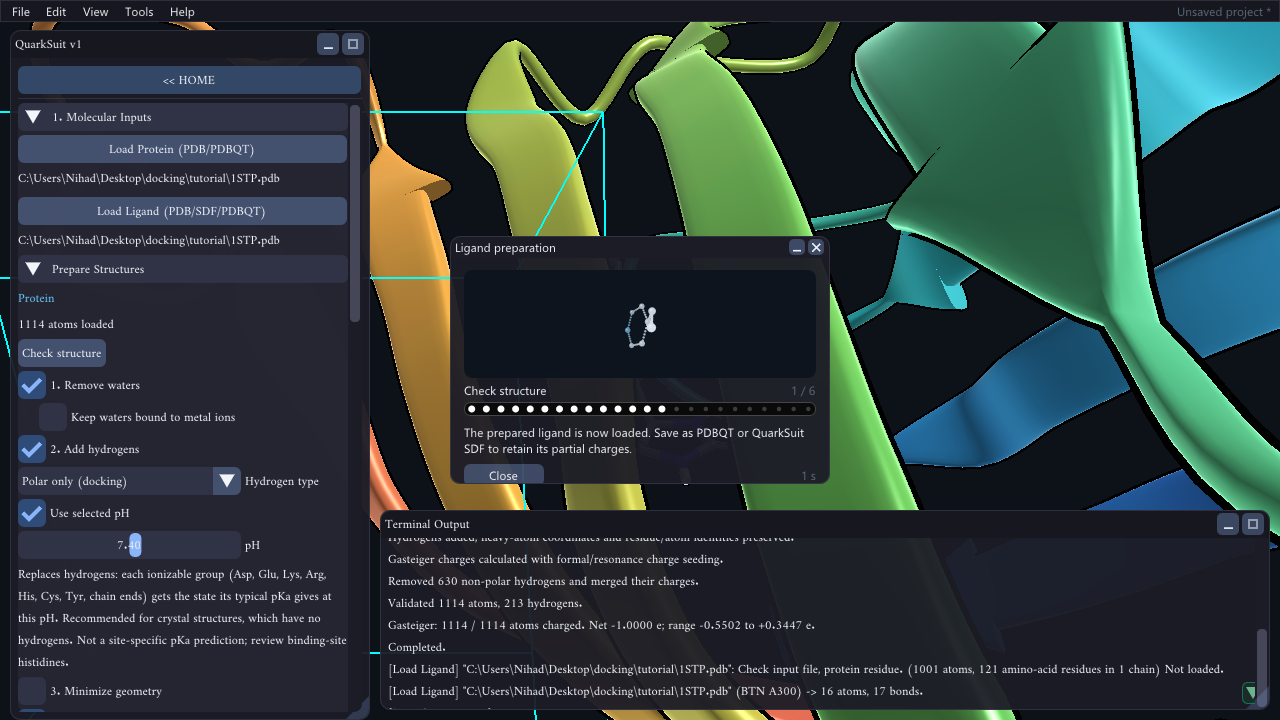
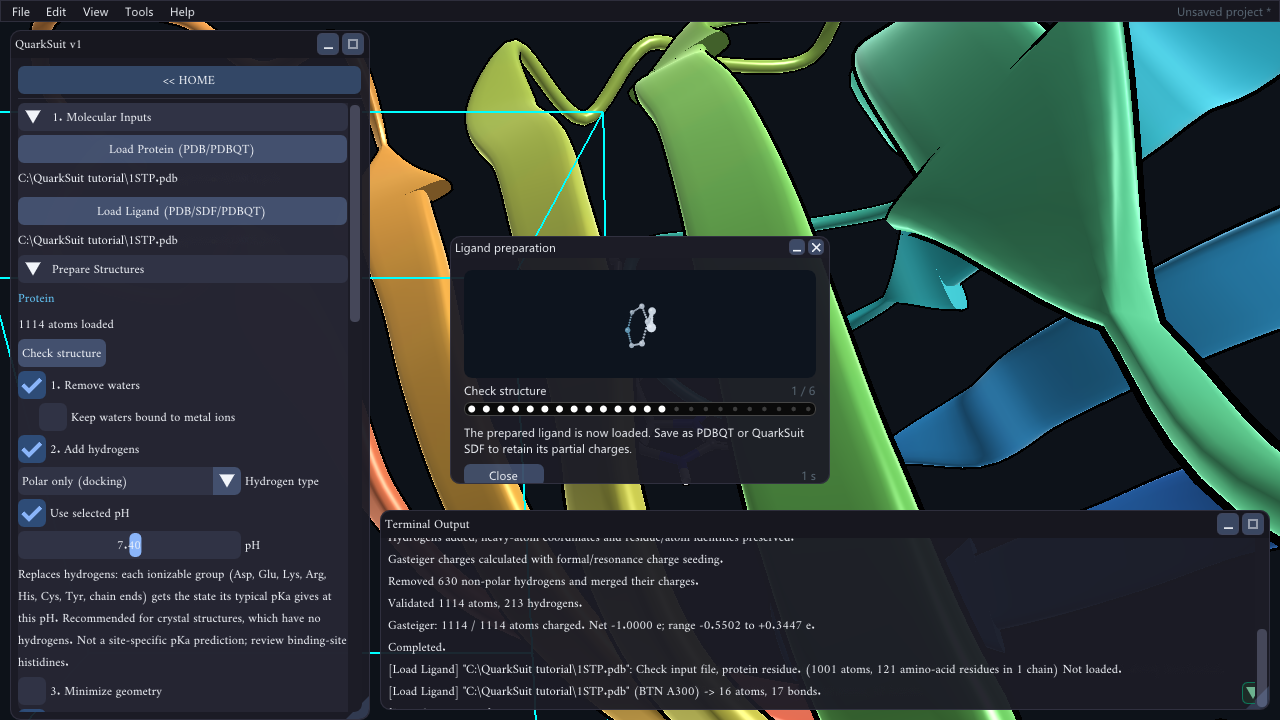
Tutorial: use a neutral folder path in the text and screenshots
The tutorial folder is now shown as C:\QuarkSuit tutorial instead of a
personal Windows user folder.

Changed region(s): [[0.375, 0.9167, 0.9688, 0.9778], [0.0312, 0.3056, 0.2188, 0.3361], [0.0312, 0.2444, 0.2188, 0.275]]

diff --git a/src/pages/tutorial.js b/src/pages/tutorial.js
@@ -39,7 +39,7 @@ steps. Allow about fifteen minutes.</p>
 <h2 id="t-files">1. Files</h2>
 <p>You need only <a href="tutorial/files/1STP.pdb">1STP.pdb</a>, as downloaded from the Protein
 Data Bank. Make a folder for the tutorial and put the file in it; the screenshots use
-<code>C:\\Users\\Nihad\\Desktop\\docking\\tutorial</code>. The files you will create are also
+<code>C:\\QuarkSuit tutorial</code>. The files you will create are also
 available on the <a href="#download/tutorial-files">Download</a> page, so you can compare yours.</p>
 ${fig(1, '01-home.png', 'The home screen. Each of the four buttons opens a workspace and starts a fresh session.')}
 
